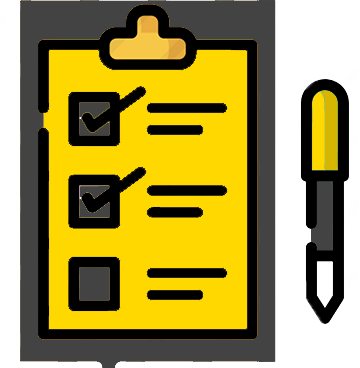
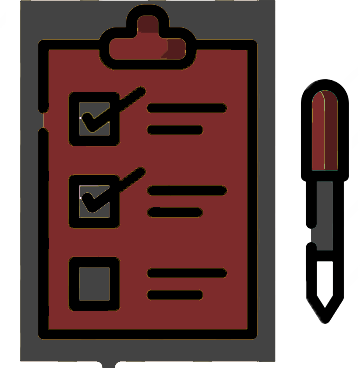
update

diff --git a/project-try-one/index.html b/project-try-one/index.html
@@ -4,40 +4,78 @@
 <head>
     <link rel="stylesheet" href="css/first.css">
     <link href="https://fonts.googleapis.com/icon?family=Material+Icons" rel="stylesheet">
-    <link rel="icon" href="img/ToDoListIcon2.png">
+    <link rel="icon" href="img/ToDoListIcon3.png">
     <meta>
     <title>Todo List</title>
 </head>
 
 <body>
-    <div id="todolist">
-        <h1>
-            Todo List
-            <span>Get things done, one item at a time.</span>
-        </h1>
+    <div id="big">
+        <div id="custm">
+            <div id="box" class="iso">
+                <label class="title">Custom Box</label>
+                <hr class="split title" style="width: 95px;">
+                <label class="input lable">background color</label><br>
+                <input type="text" name="backgroundColor" class="input" placeholder="bacgourd Color" v-model="mainDiv.backcolor"><br><br>
+                <label class="input lable">text color</label><br>
+                <input type="text" name="text color" class="input" placeholder="Text color" v-model="mainDiv.textColor"><br><br>
+                <label class="input lable">shado box Color</label><br>
+                <input type="text" name="botder Raduse" class="input" placeholder="border Raduse" v-model="mainDiv.borderColor"><br><br>
+                <label class="input lable">botder Raduse</label><br>
+                <input type="text" name="shado box Color" class="input" placeholder="border Color" v-model="mainDiv.borderRd"><br><br>
+            </div>
+            <hr style="width: 400px;">
+            <div id="li" class="iso">
+                <label class="title"> Custom Task Card </label>
+                <hr class="split title" style="width: 150px;">
+                <label class="input lable">background color</label><br>
+                <input type="text" name="backgroundColor" class="input" placeholder="bacgourd Color" v-model="li.backcolor"><br><br>
+                <label class="input lable">text color</label><br>
+                <input type="text" name="text color" class="input" placeholder="Text color" v-model="li.textColor"><br><br>
+                <label class="input lable">botder Raduse</label><br>
+                <input type="text" name="shado box Color" class="input" placeholder="border Color" v-model="li.borderRd"><br><br>
+            </div>
+            <hr style="width: 400px;">
+            <div id="btn" class="iso">
+                <label id="btn" class="title"> Custom Add Task btn</label>
+                <hr class="split title" style="width: 175px;">
+                <label class="input lable">background color</label><br>
+                <input type="text" name="backgroundColor" class="input" placeholder="bacgourd Color" v-model="btn.backcolor"><br><br>
+                <label class="input lable">text color</label><br>
+                <input type="text" name="text color" class="input" placeholder="Text color" v-model="btn.textColor"><br><br>
+                <label class="input lable">botder Raduse</label><br>
+                <input type="text" name="shado box Color" class="input" placeholder="border Color" v-model="btn.borderRd"><br><br>
+            </div>
+        </div>
+        <div id="todolist" :style="{background:mainDiv.backcolor,color:mainDiv.textColor,borderRadius:mainDiv.borderRd+'px',boxShadow: '-20px -20px 0px 0px'+mainDiv.borderColor }">
+            <h1>
+                Todo List
+                <span>Get things done, one item at a time.</span>
+            </h1>
 
-        <div v-if="todo.length">
-            <transition-group name="todolist" tag="ul">
-                <li v-for="item in todoByStatus" v-bind:class="item.done ? 'done' : ''" v-bind:key="item.id">
-                    <span class="label">{{item.label}}</span>
-                    <div class="actions">
-                        <button class="btn-picto" type="button" v-on:click="markAsDoneOrUndone(item)" v-bind:aria-label="item.done ? 'Undone' : 'Done'" v-bind:title="item.done ? 'Undone' : 'Done'">
+            <div v-if="todo.length">
+                <transition-group name="todolist" tag="ul">
+                    <li v-for="item in todo" :class="item.done ? 'done' : ''" :key="item.id" :style="{background:li.backcolor,color:li.textColor,borderRadius:li.borderRd+'px'}">
+                        <p class="label">{{item.label}}</p>
+                        <div class="actions">
+                            <button class="btn-picto" type="button" @click="markAsDoneOrUndone(item)" :aria-label="item.done ? 'Undone' : 'Done'" :title="item.done ? 'Undone' : 'Done'">
                     <i aria-hidden="true" class="material-icons">{{ item.done ? 'done' : 'check_box_outline_blank' }}</i>
                   </button>
-                        <button class="btn-picto" type="button" v-on:click="deleteItemFromList(item)" aria-label="Delete" title="Delete">
+                            <button class="btn-picto" type="button" @click="deleteItemFromList(item)" aria-label="Delete" title="Delete">
                     <i aria-hidden="true" class="material-icons">close</i>
                   </button>
-                    </div>
-                </li>
-            </transition-group>
+                        </div>
+                    </li>
+                </transition-group>
+            </div>
+            <p v-else class="emptylist">Your todo list is empty.</p>
+            <form name="newform" @submit.prevent="newItemValed()">
+                <label for="newitem">Add to the todo list</label>
+                <input type="text" name="newitem" id="newitem" v-model="newitem">
+                <button type="submit" :style="{background:btn.backcolor,color:btn.textColor,borderRadius:btn.borderRd+'px'}">Add item</button>
+                <label v-if="!isEmpty" style="color: red;">*this field cannot be Empty.</label>
+            </form>
         </div>
-        <p v-else class="emptylist">Your todo list is empty.</p>
-        <form name="newform" v-on:submit.prevent="addItem">
-            <label for="newitem">Add to the todo list</label>
-            <input type="text" name="newitem" id="newitem" v-model="newitem">
-            <button type="submit">Add item</button>
-        </form>
-
     </div>
     <script src="js/vue.js"></script>
     <script src="js/first.js"></script>

diff --git a/project-try-one/css/first.css b/project-try-one/css/first.css
@@ -1,3 +1,9 @@
+nav {
+    background-color: #ff4e00;
+    background-image: linear-gradient(315deg, #ff4d00a6 0%, #ec6d059c 74%);
+    height: 50px;
+}
+
 * {
     margin: 0;
     padding: 0;
@@ -6,25 +12,70 @@
 
 html,
 body {
-    background: #434343;
+    background: #FFF;
     font-size: 1.1rem;
     font-family: 'Berlin Sans FB', sans-serif;
     height: 100%;
 }
 
-@keyframes strikeitem {
-    to {
-        width: calc(100% + 1rem);
-    }
+#custm {
+    margin-left: 900px;
+    margin-top: 100px;
+    animation: formRight 1.2s;
+}
+
+.input {
+    text-align: center;
+    border-radius: 5px;
+    width: 200px;
+    height: 38px;
+}
+
+.input[type="text"] {
+    border: 1px solid;
+    border-color: #7d2b2b;
+}
+
+.input[type="text"]:focus {
+    outline: #7d2b2b;
+    background-color: #434343;
+    color: #f7f1f1;
+    animation: onFocs 1s forwards;
+}
+
+hr {
+    border-color: #7d2b2b;
+}
+
+.title {
+    margin-left: 150px;
+}
+
+.iso {
+    margin: 5px;
+    width: 400px;
+    margin-left: -10px;
+    padding: 5px;
+    /*  border: 2px solid black;*/
+}
+
+.lable {
+    padding: 10px;
+    margin-bottom: 10px;
 }
 
 #todolist {
-    margin: 4rem auto;
+    margin: 4rem;
+    margin-top: -800px;
     padding: 2rem 3rem 3rem;
     max-width: 500px;
-    background: #ffd800;
-    color: #FFF;
-    box-shadow: -20px -20px 0px 0px #fff;
+    /*width: 50%;*/
+    float: left;
+    /*background: #ffd800;
+    color: #FFF;*/
+    box-shadow: -20px -20px 0px 0px #434343;
+    border-color: #7d2b2b;
+    animation: formLeft 1.3s;
 }
 
 #todolist h1 {
@@ -56,21 +107,20 @@ body {
     list-style: none;
 }
 
-#todolist .todolist-move {
-    transition: transform 1s;
-}
-
 #todolist li {
     display: flex;
     margin: 0 -3rem 4px;
     padding: 1.1rem 3rem;
     justify-content: space-between;
     align-items: center;
-    background: rgba(0, 0, 0, 0.281);
+    background: #434343;
+    transition: background .2s ease-out;
 }
 
 #todolist li:hover {
-    background-color: #434343;
+    /*background-color: #7d2b2b;
+    color: #434343;*/
+    animation: onit ease-out 0.6s forwards;
 }
 
 #todolist .actions {
@@ -80,29 +130,17 @@ body {
 
 #todolist .label {
     position: relative;
-    transition: opacity .2s linear;
+    transition: opacity .3s linear;
 }
 
 #todolist .done .label {
-    opacity: .6;
-}
-
-#todolist .done .label:before {
-    content: '';
-    position: absolute;
-    top: 50%;
-    left: -.5rem;
-    display: block;
-    width: 0%;
-    height: 1px;
-    background: #FFF;
-    animation: strikeitem .2s ease-out 0s forwards;
+    opacity: .7;
+    text-decoration: line-through;
 }
 
 #todolist .btn-picto {
     border: none;
     background: none;
-    -webkit-appearance: none;
     cursor: pointer;
     color: #FFF;
 }
@@ -137,7 +175,7 @@ form input {
 form button {
     padding: 0 1.3rem;
     border: none;
-    background: #e2c000;
+    background: #434343;
     color: white;
     text-transform: uppercase;
     font-weight: bold;
@@ -148,11 +186,54 @@ form button {
 }
 
 form button:hover {
-    background: #434343;
+    /*color: #434343;
+    background: #7d2b2b;*/
+    animation: onit 0.6s forwards;
 }
 
 form input,
 form button {
-    font-family: 'Quicksand', sans-serif;
+    font-family: 'Berlin Sans FB';
+    font-weight: normal;
     height: 3rem;
+}
+
+@keyframes onFocs {
+    0% {
+        width: 200px;
+    }
+    100% {
+        width: 400px;
+    }
+}
+
+@keyframes onit {
+    0% {
+        transform: scale(1, 1);
+    }
+    100% {
+        transform: scale(1.2, 1.2);
+    }
+}
+
+@keyframes formLeft {
+    0% {
+        opacity: 0;
+        transform: translateX(-90px);
+    }
+    100% {
+        opacity: 1;
+        transform: translateX(0);
+    }
+}
+
+@keyframes formRight {
+    0% {
+        opacity: 0;
+        transform: translateX(90px);
+    }
+    100% {
+        opacity: 1;
+        transform: translateX(0);
+    }
 }

diff --git a/project-try-one/js/first.js b/project-try-one/js/first.js
@@ -1,13 +1,30 @@
 var todolist = new Vue({
-    el: '#todolist',
+    el: '#big',
     data: {
+        mainDiv: {
+            backcolor: '#7d2b2b',
+            textColor: '#FFF',
+            borderColor: '#434343',
+            borderRd: '0',
+        },
+        li: {
+            backcolor: '#434343',
+            textColor: '#FFF',
+            borderRd: '0',
+        },
+        btn: {
+            backcolor: '#434343',
+            textColor: '#FFF',
+            borderRd: '0',
+        },
         newitem: '',
-        sortByStatus: false,
+        isEmpty: true,
         todo: [
             { id: 1, label: "Learn VueJs", done: true },
             { id: 2, label: "Code a todo list", done: false },
             { id: 3, label: "Learn something else", done: false }
         ]
+
     },
     methods: {
         addItem: function() {
@@ -21,23 +38,15 @@ var todolist = new Vue({
             let index = this.todo.indexOf(item)
             this.todo.splice(index, 1);
         },
-        clickontoogle: function(active) {
-            this.sortByStatus = active;
-        }
-    },
-    computed: {
-        todoByStatus: function() {
-
-            if (!this.sortByStatus) {
-                return this.todo;
+        newItemValed: function() {
+            if (!this.newitem == '') {
+                this.addItem();
+                this.isEmpty = true;
+            } else {
+                this.isEmpty = false;
             }
-
-            var sortedArray = []
-            var doneArray = this.todo.filter(function(item) { return item.done; });
-            var notDoneArray = this.todo.filter(function(item) { return !item.done; });
-
-            sortedArray = [...notDoneArray, ...doneArray];
-            return sortedArray;
         }
-    }
+
+    },
+
 });
